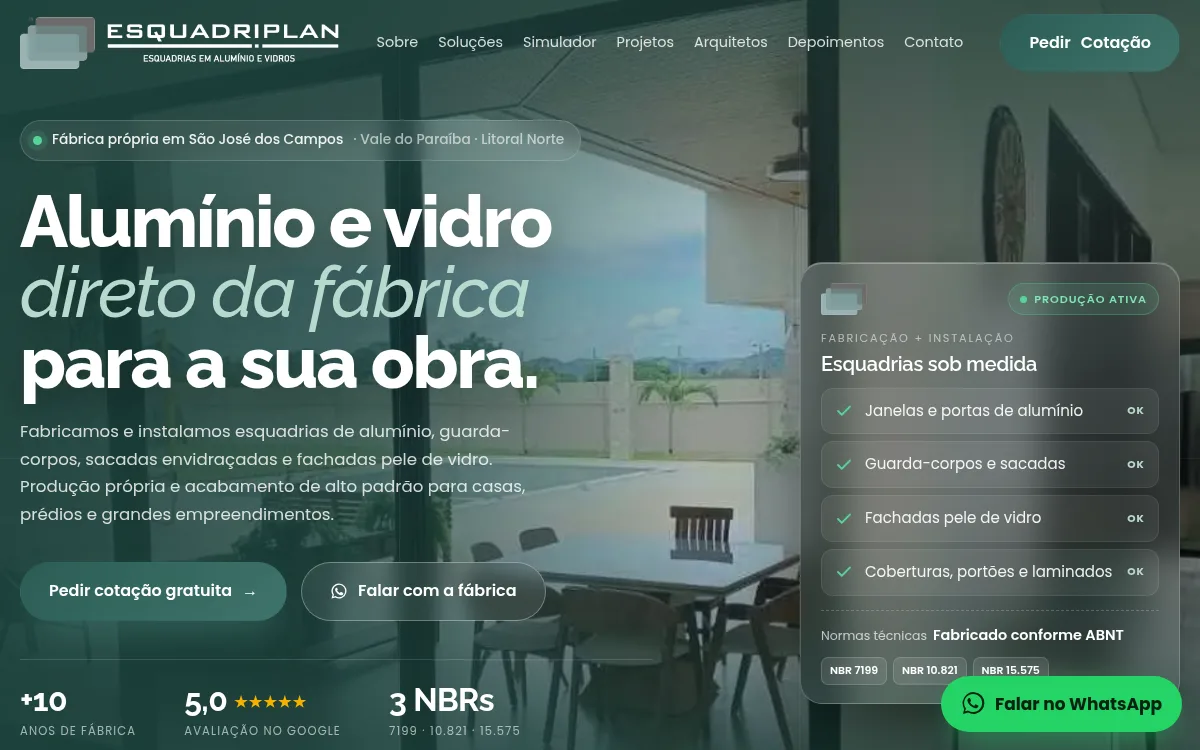
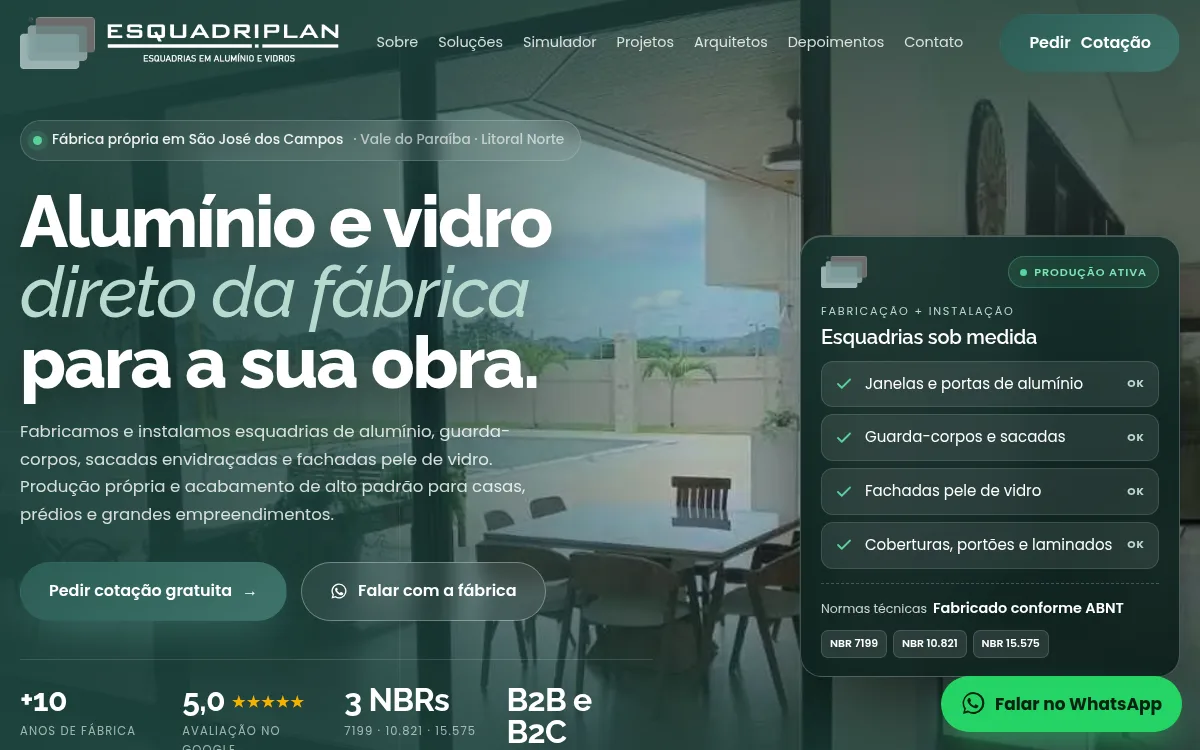
don

diff --git a/esquadriplan/index.html b/esquadriplan/index.html
@@ -67,8 +67,8 @@ header.s{background:rgba(255,255,255,.9);backdrop-filter:blur(16px);border-botto
 .hero .btn.p{box-shadow:0 18px 40px -14px rgba(63,116,107,.9)}
 .hero .btn.g{border-color:rgba(255,255,255,.32);background:rgba(255,255,255,.08);backdrop-filter:blur(10px);-webkit-backdrop-filter:blur(10px);color:#fff}.hero .btn.g:hover{background:rgba(255,255,255,.16);border-color:#fff;color:#fff}
 .hero .btn svg{width:18px;height:18px;fill:currentColor}
-.stats{display:grid;grid-template-columns:repeat(4,1fr);gap:18px 16px;margin-top:38px;padding-top:24px;border-top:1px solid rgba(255,255,255,.14)}
-.stats b{font:700 2rem/1 Raleway,sans-serif;display:block;color:#fff;letter-spacing:-.02em}.stats span{font-size:.72rem;color:rgba(255,255,255,.6);letter-spacing:.1em;text-transform:uppercase;display:block;margin-top:6px}.gst{font-size:.95rem;color:#f5b301;letter-spacing:1px;vertical-align:middle}
+.stats{display:flex;flex-wrap:wrap;gap:18px 30px;margin-top:38px;padding-top:24px;border-top:1px solid rgba(255,255,255,.14)}
+.stats b{font:700 1.75rem/1 Raleway,sans-serif;display:block;color:#fff;letter-spacing:-.02em;white-space:nowrap}.stats span{font-size:.66rem;color:rgba(255,255,255,.62);letter-spacing:.07em;text-transform:uppercase;display:block;margin-top:6px;white-space:nowrap}.gst{font-size:.95rem;color:#f5b301;letter-spacing:1px;vertical-align:middle}
 /* cartão "fábrica própria" (vidro) */
 .hcard{position:relative;margin-left:auto;width:min(100%,380px);border-radius:22px;padding:20px 20px 18px;background:linear-gradient(160deg,rgba(22,52,47,.86),rgba(12,30,27,.92));border:1px solid rgba(255,255,255,.22);backdrop-filter:blur(18px);-webkit-backdrop-filter:blur(18px);box-shadow:0 40px 90px -30px rgba(0,0,0,.8),inset 0 1px 0 rgba(255,255,255,.22)}
 .hcard .top{display:flex;justify-content:space-between;align-items:center;margin-bottom:14px}
@@ -91,7 +91,7 @@ header.s{background:rgba(255,255,255,.9);backdrop-filter:blur(16px);border-botto
 header:not(.s):not(.m) #nv a{color:rgba(255,255,255,.82)}header:not(.s):not(.m) #nv a:hover,header:not(.s):not(.m) #nv a.on{color:#fff}
 header:not(.s):not(.m) .lg-tx{filter:brightness(0) invert(1)}header:not(.s):not(.m) .burger{color:#fff;border-color:rgba(255,255,255,.3)}
 @media(max-width:1280px){.lg-mk{height:42px}.lg-tx{height:30px}#nv ul{gap:20px;font-size:.9rem}}
-@media(max-width:1100px){.pill .rg{display:none}}
+@media(max-width:1100px){.pill .rg{display:none}.stats{display:grid;grid-template-columns:1fr 1fr;gap:16px 20px}}
 @media(max-width:960px){.hero:before{background:linear-gradient(180deg,rgba(29,67,61,.78),rgba(29,67,61,.5) 38%,rgba(29,67,61,.72) 62%,rgba(29,67,61,.96) 90%)}}
 /* marquee */
 .mq{border-block:1px solid var(--line);background:var(--bg2);overflow:hidden;padding:20px 0;white-space:nowrap}
@@ -270,7 +270,7 @@ input:focus,select:focus{outline:none;border-color:var(--gold)}
  .nav>.btn{display:inline-flex;padding:9px 13px;font-size:.82rem;margin-left:auto;white-space:nowrap}.nav>.btn span{display:none}.nav{gap:8px}.nav .lg-mk{height:30px!important}.nav .lg-tx{height:21px!important}.logo{position:relative;z-index:70;gap:8px}.burger{position:relative;z-index:70;flex:none}
  .sbox{grid-template-columns:1fr}.sbox .out{border-left:0;border-top:1px solid var(--line)}.gal{grid-template-columns:1fr 1fr;grid-auto-rows:150px}.gal figure{grid-column:span 1!important;grid-row:span 2!important}.g1{grid-column:span 2!important;grid-row:span 2!important}
 }
-@media(max-width:560px){.pill{font-size:.8rem}.hero .cta .btn{width:100%}.stats{grid-template-columns:1fr 1fr}.stats b{font-size:1.9rem}.hcard{padding:20px 18px 16px}
+@media(max-width:560px){.pill{font-size:.8rem}.hero .cta .btn{width:100%}.stats span{white-space:normal}.hcard{padding:20px 18px 16px}
 .row2{grid-template-columns:1fr}.tabs{border-radius:22px;width:100%}.tabs button{flex:1 1 100%}.types{grid-template-columns:1fr 1fr}.row3{grid-template-columns:1fr 1fr}.row3 label:last-child{grid-column:span 2}.q{flex-direction:column;align-items:flex-start;gap:10px}.steps{grid-template-columns:1fr}.wa span{display:none}.wa{padding:15px}.norm{flex-direction:column;align-items:flex-start;gap:6px}.cta .btn{width:100%}body{font-size:16px}}
 @media(prefers-reduced-motion:reduce){*{animation:none!important;transition:none!important}.rv{opacity:1;transform:none}html{scroll-behavior:auto}}
 .lg-mk{height:52px;width:auto;display:block}.lg-tx{height:38px;width:auto;display:block}.ft .lg{height:130px;width:auto;display:block;filter:brightness(0) invert(1)}
